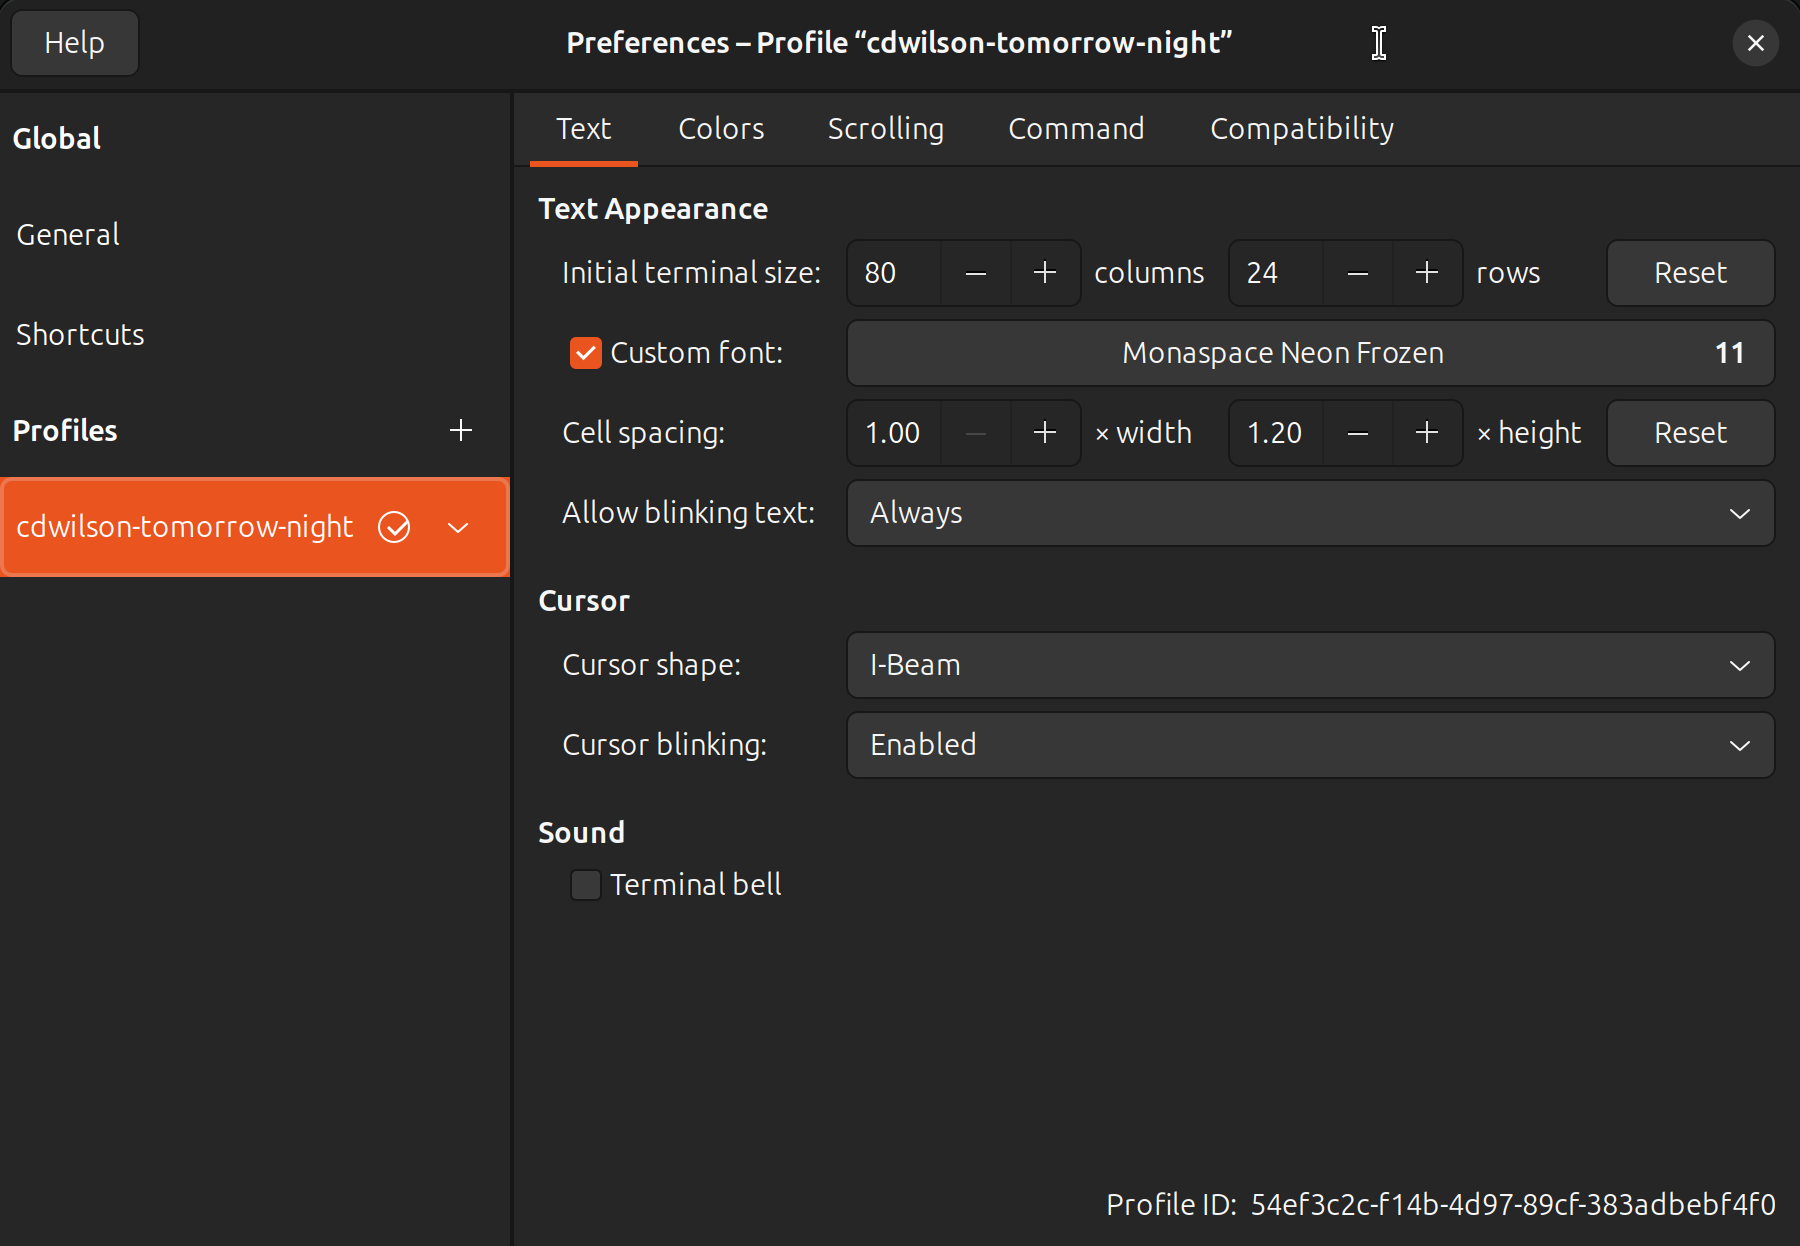
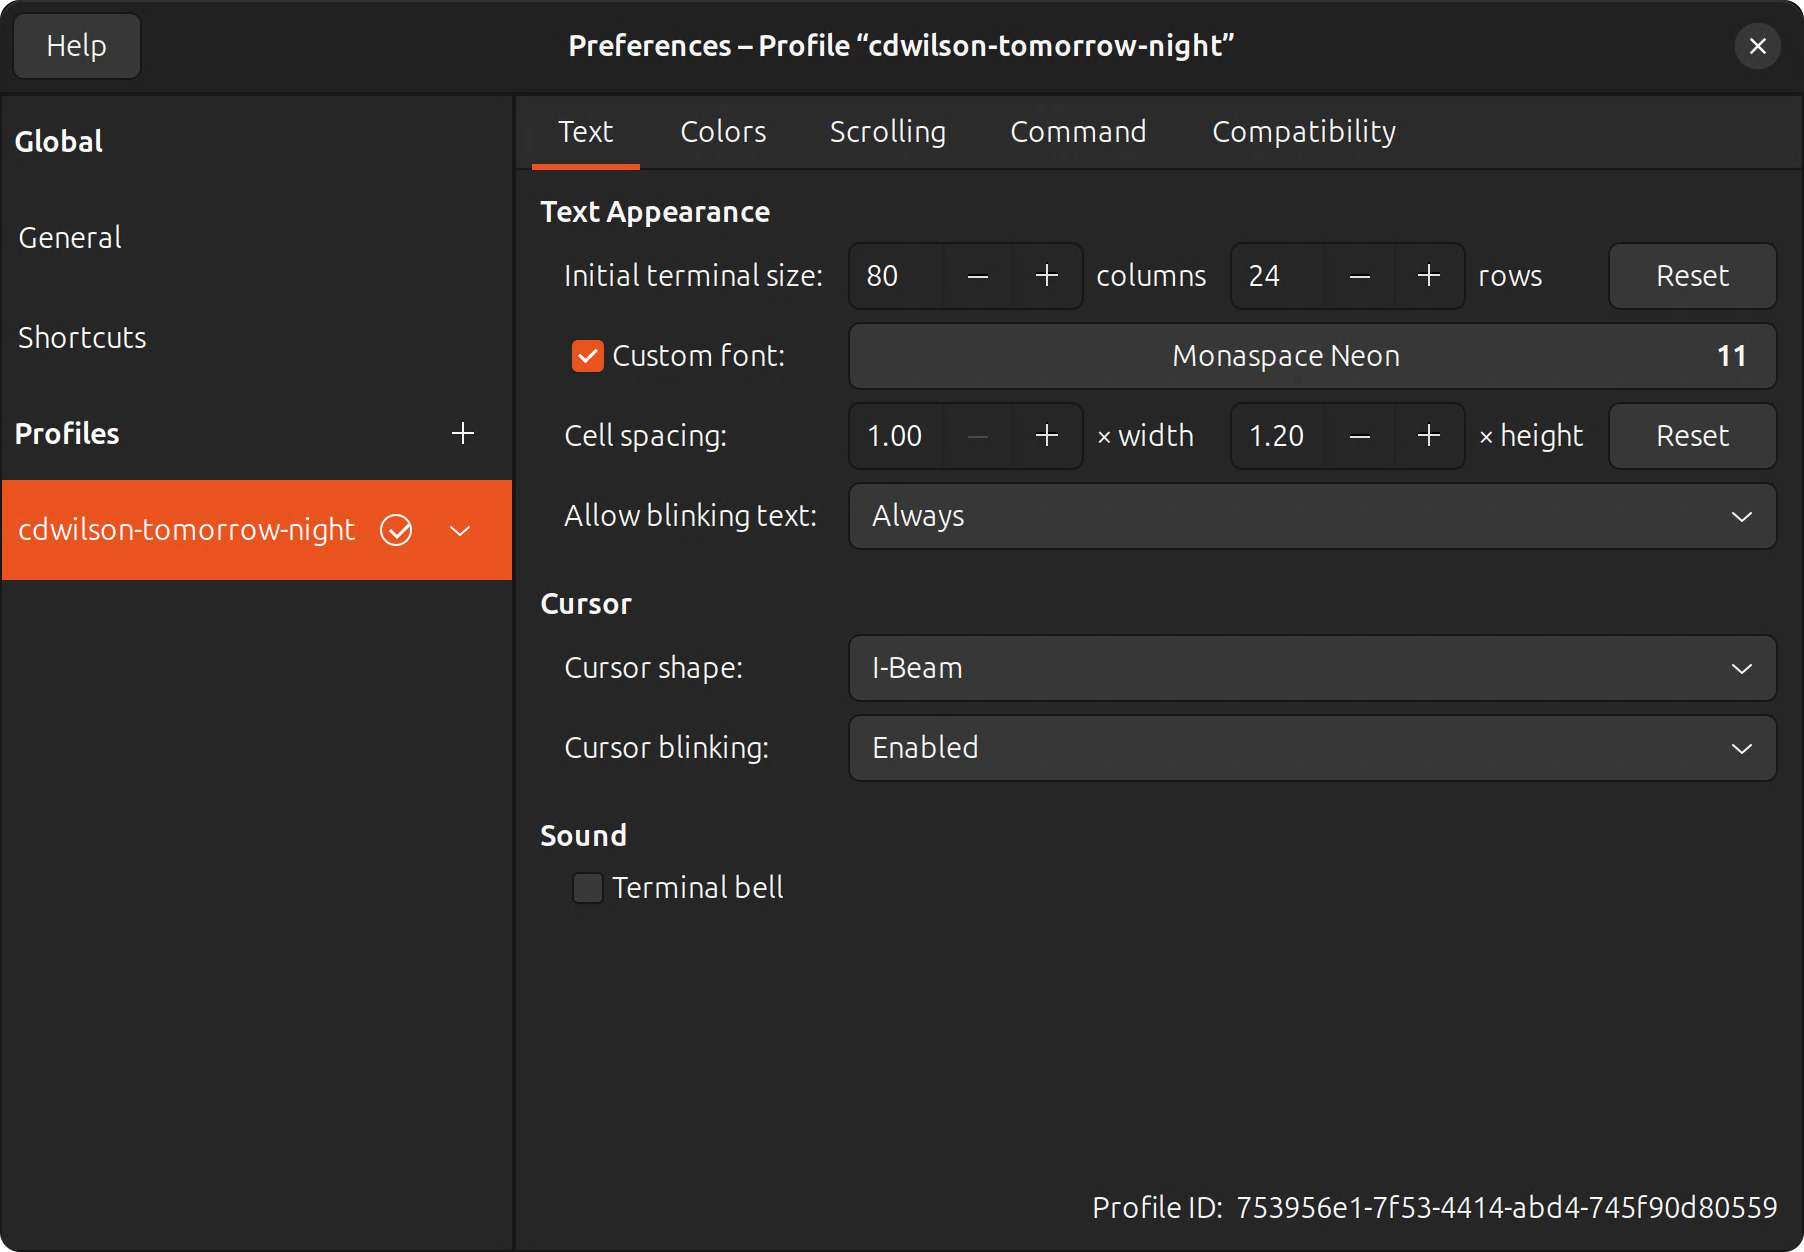
Font upgrades
- Upgrade Monaspace font to v1.300
- Upgrade Symbols Nerd Font to v3.4.0

diff --git a/README.md b/README.md
@@ -135,7 +135,7 @@ brew install --cask font-symbols-only-nerd-font
 > [!NOTE]
 > Although Monaspace added nerd fonts in the [`v1.200`](https://github.com/githubnext/monaspace/releases/tag/v1.200) release, it does not contain some of the symbols that the `font-symbols-only-nerd-font` font does. In addition, the nerd fonts bundled with with Monaspace are scaled so they fit within the monospaced "box", resulting in smaller icons.
 >
-> To avoid these issues, the `Monaspace Neon Frozen` is used (which does not contain any Nerd Fonts) and `Symbols Nerd Font` is configured as a fallback font which provides the Nerd Font icons. Terminals that do not provide a fallback font configuration option (e.g. macOS Terminal.app & GNOME Terminal) are configured to use a simplified prompt which does not use Nerd Fonts.
+> To avoid these issues, the `Monaspace Neon` font is used (instead of `Monaspace Neon NF` which includes nerd fonts) and `Symbols Nerd Font` is configured as a fallback font which provides the nerd font icons. Terminals that do not provide a fallback font configuration option (e.g. macOS Terminal.app & GNOME Terminal) are configured to use a simplified prompt which does not use nerd fonts.
 
 #### Ghostty Setup
 
@@ -371,13 +371,11 @@ To install the [Monaspace](https://monaspace.githubnext.com/) font:
 
 ```sh
 cd ~/Downloads
-wget https://github.com/githubnext/monaspace/releases/download/v1.200/monaspace-v1.200.zip
+wget https://github.com/githubnext/monaspace/releases/download/v1.300/monaspace-static-v1.300.zip
 mkdir -p ~/.local/share/fonts
-unzip monaspace-v1.200.zip
-cd monaspace-v1.200/
-bash util/install_linux.sh
-cd -
-rm -rf monaspace-v1.200/
+rm -rf ~/.local/share/fonts/Monaspace*
+mkdir -p ~/.local/share/fonts/Monaspace
+unzip monaspace-static-v1.300.zip -d ~/.local/share/fonts/Monaspace/
 fc-cache -fv
 ```
 
@@ -385,20 +383,22 @@ To install the `Symbols Nerd Font` font from [Nerd Fonts](https://www.nerdfonts.
 
 ```sh
 cd ~/Downloads
-wget https://github.com/ryanoasis/nerd-fonts/releases/download/v3.3.0/NerdFontsSymbolsOnly.zip
+wget https://github.com/ryanoasis/nerd-fonts/releases/download/v3.4.0/NerdFontsSymbolsOnly.zip
 mkdir -p ~/.local/share/fonts
-unzip NerdFontsSymbolsOnly.zip -d ~/.local/share/fonts/
+rm -rf ~/.local/share/fonts/SymbolsNerdFont*
+mkdir -p ~/.local/share/fonts/SymbolsNerdFont
+unzip NerdFontsSymbolsOnly.zip -d ~/.local/share/fonts/SymbolsNerdFont/
 fc-cache -fv
 ```
 
 > [!NOTE]
 > Although Monaspace added nerd fonts in the [`v1.200`](https://github.com/githubnext/monaspace/releases/tag/v1.200) release, it does not contain some of the symbols that the `font-symbols-only-nerd-font` font does. In addition, the nerd fonts bundled with with Monaspace are scaled so they fit within the monospaced "box", resulting in smaller icons.
 >
-> To avoid these issues, the `Monaspace Neon Frozen` is used (which does not contain any Nerd Fonts) and `Symbols Nerd Font` is configured as a fallback font which provides the Nerd Font icons. Terminals that do not provide a fallback font configuration option (e.g. macOS Terminal.app & GNOME Terminal) are configured to use a simplified prompt which does not use Nerd Fonts.
+> To avoid these issues, the `Monaspace Neon` font is used (instead of `Monaspace Neon NF` which includes nerd fonts) and `Symbols Nerd Font` is configured as a fallback font which provides the nerd font icons. Terminals that do not provide a fallback font configuration option (e.g. macOS Terminal.app & GNOME Terminal) are configured to use a simplified prompt which does not use nerd fonts.
 
 #### GNOME Terminal Setup
 
-1. To use the [Monaspace](https://github.com/i-tu/Hasklig) font:
+1. To use the Monaspace font:
 
    ![](images/ubuntu_custom_font.png)
 
